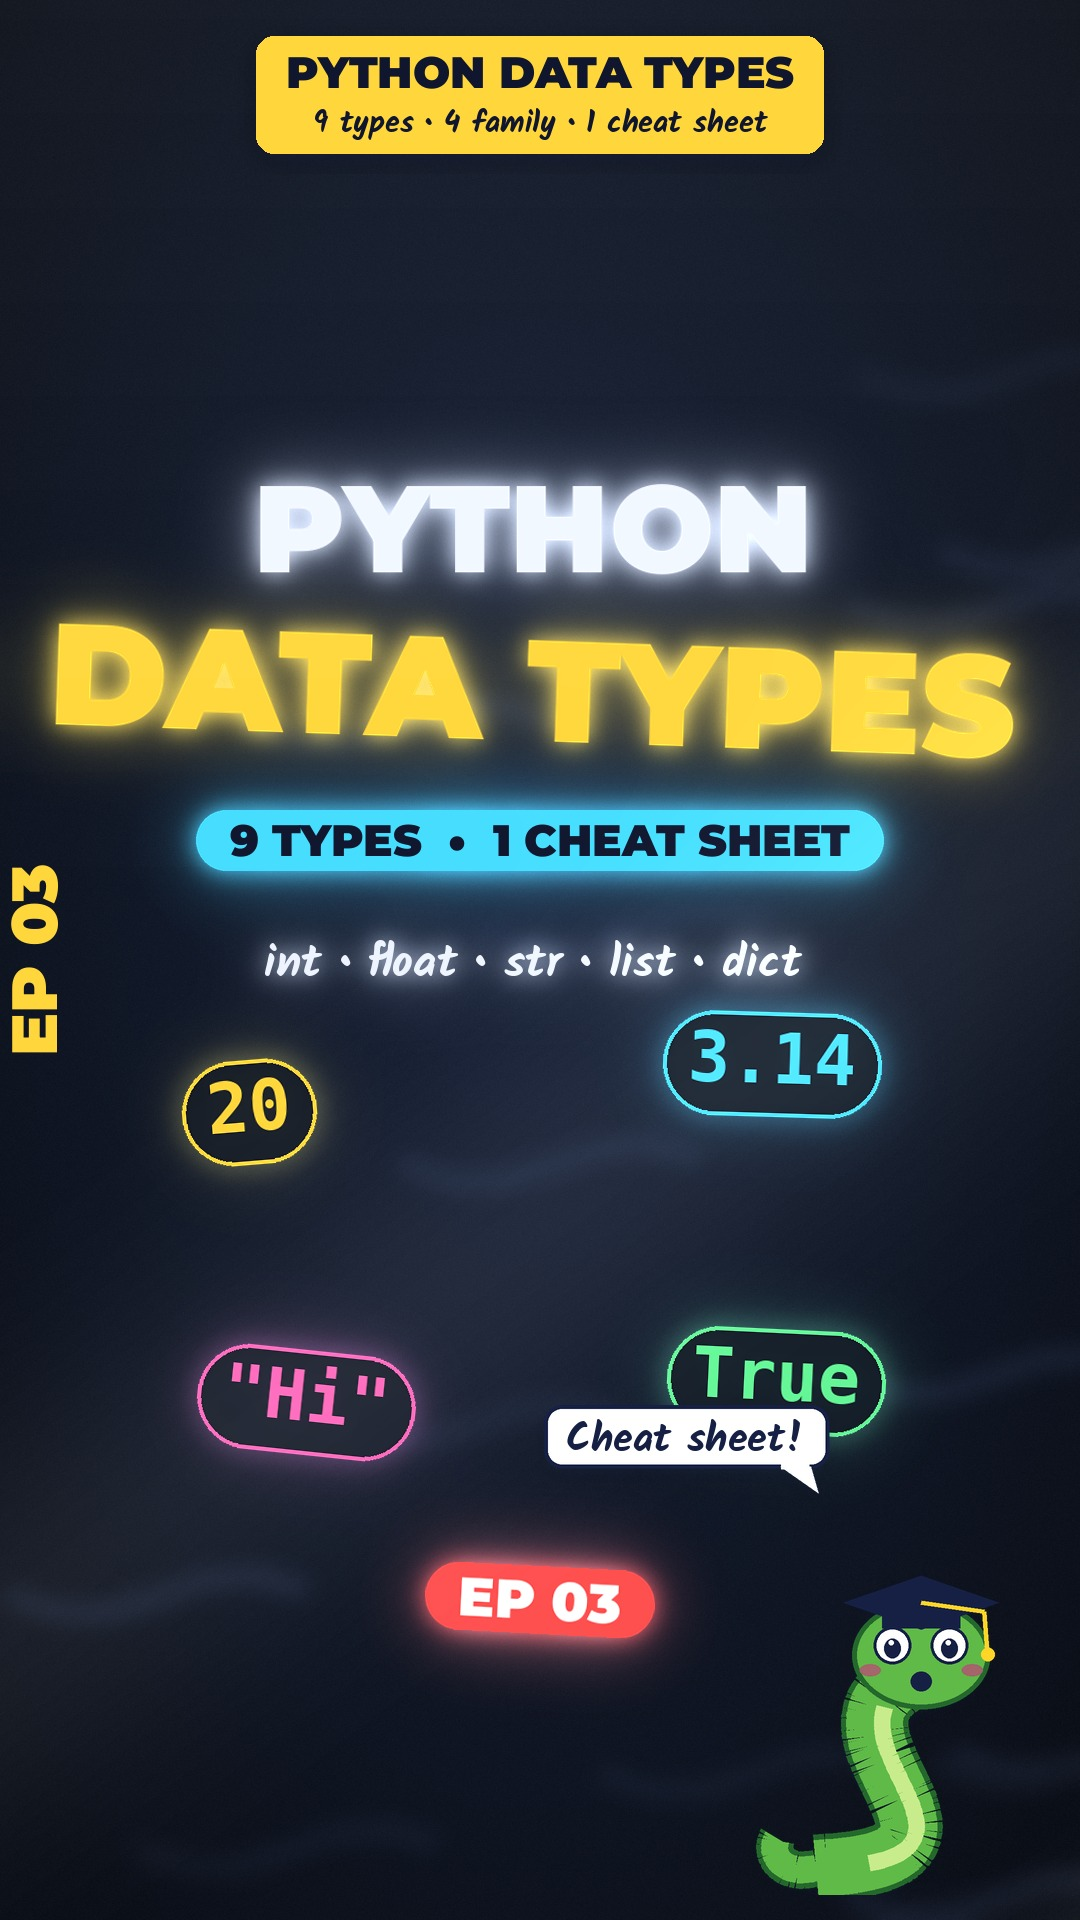
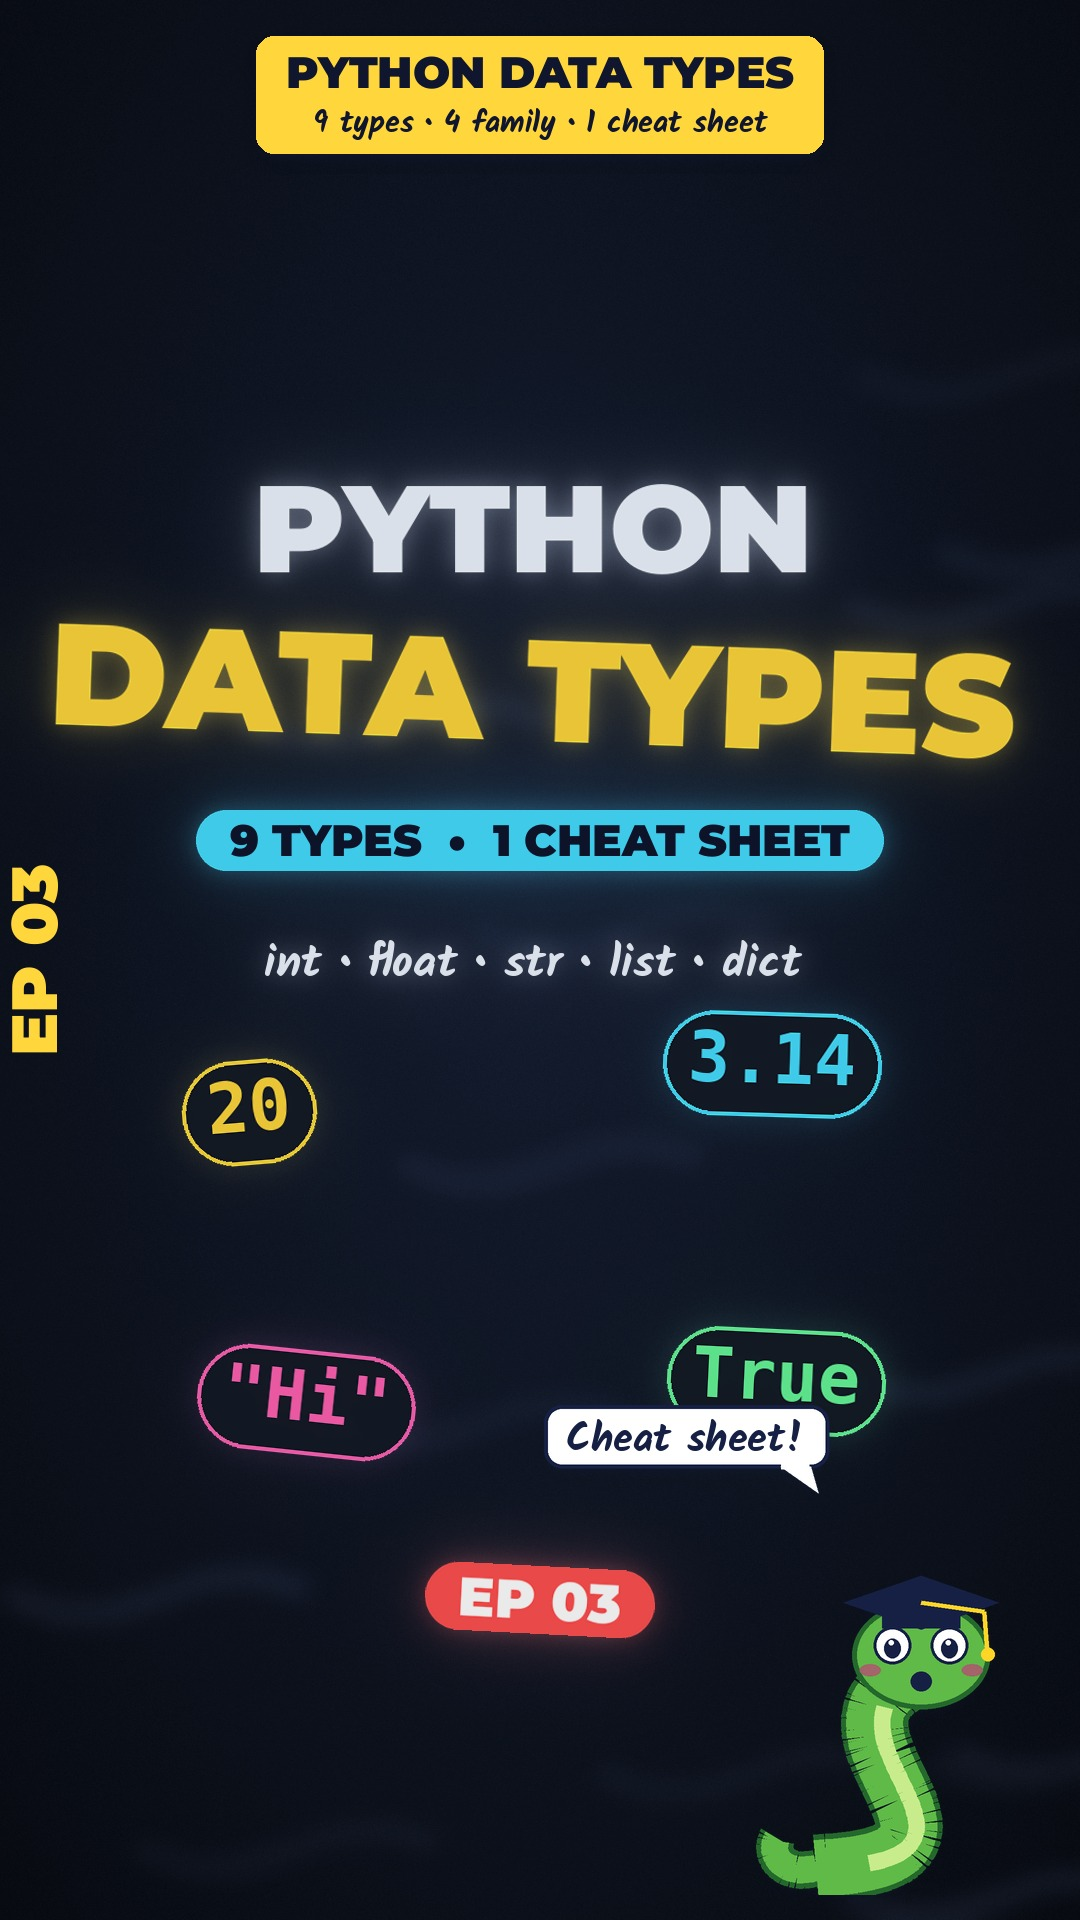
EP03: tone down the thumbnail glow so the text stays crisp
Claude-Session: https://claude.ai/code/session_01XPgziZtLeJHxwsjob5KANL

diff --git a/pathshala/ep03-data-types/build.py b/pathshala/ep03-data-types/build.py
@@ -891,9 +891,9 @@ def thumbnail(path):
     base = glass_base().astype(np.float32)
     la = np.asarray(L, np.float32)
     al = la[..., 3:4] / 255
-    frame = (base + bloom(L) * 0.85) * (1 - al) + la[..., :3] * al
-    frame = gloss(np.clip(frame, 0, 255).astype(np.uint8), 0.0)
-    img = Image.fromarray(frame).convert("RGBA")
+    # thumbnail: soft glow only, so the text stays crisp instead of blown out
+    frame = (base * 0.85 + bloom(L) * 0.28) * (1 - al) + la[..., :3] * al * 0.92
+    img = Image.fromarray(np.clip(frame, 0, 255).astype(np.uint8)).convert("RGBA")
     paste(img, title_box(), 540, 95)
     paste(img, side_ep(), 34, H / 2)
     paste(img, mascot(False, "wow", 300), 900, 1700)
